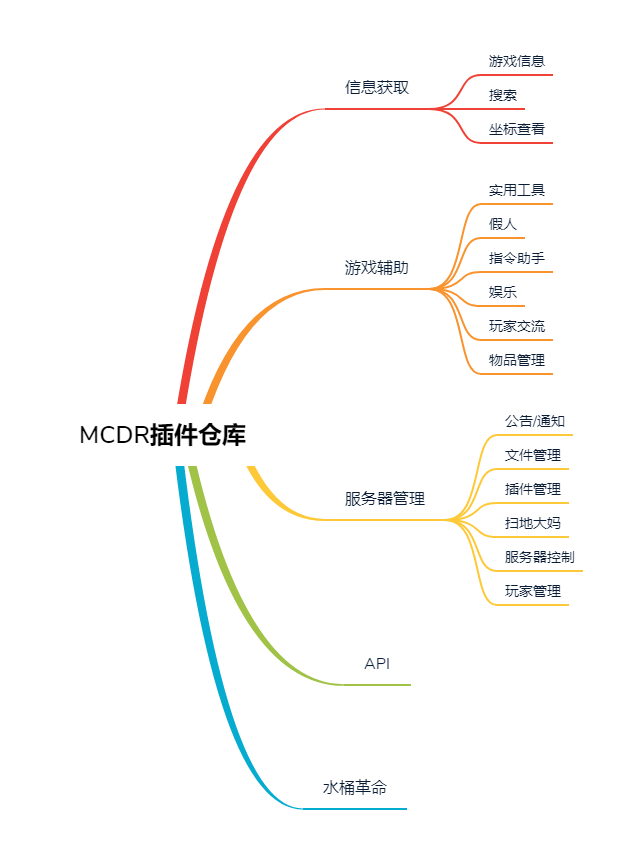
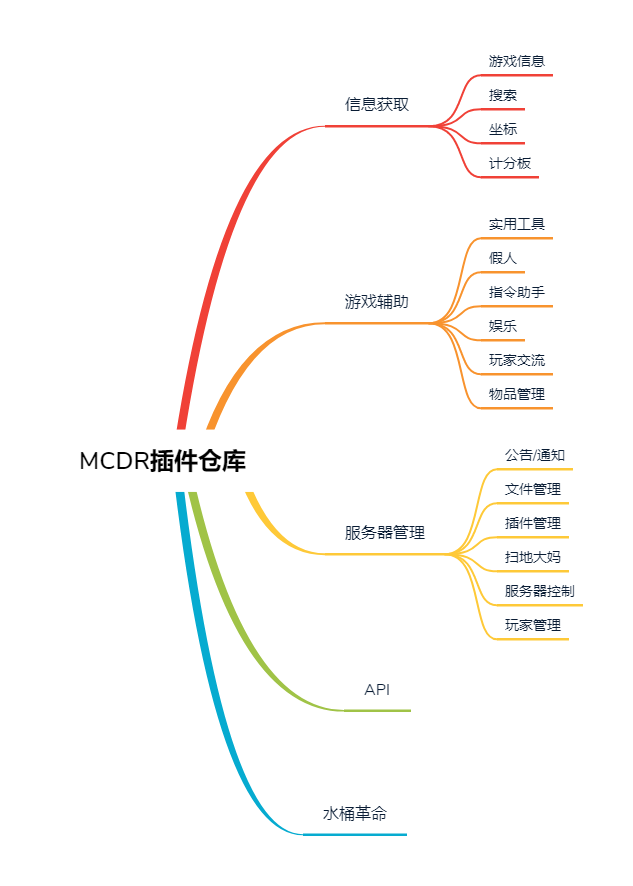
整理分类

diff --git a/readme_cn.md b/readme_cn.md
@@ -22,8 +22,6 @@
 | [Daytime](https://github.com/BelowZeroKelvin/MCDR-Daytime) | [BelowZeroKelvin](https://github.com/BelowZeroKelvin) | 查看mc的时间 |
 | [SystemInfo](https://github.com/eagle3236/SystemInfo) | [Alex3236](https://github.com/eagle3236) | 查看系统信息 |
 | [Seed](https://github.com/MCDReforged-Plugins/Seed) | [White_Paper](https://github.com/AngelicaRoot) | 查看服务器存档种子|
-| [MCDR-Auto-Scoreboard](https://github.com/AngelicaRoot/MCDR-Auto-Scoreboard) | [White_Paper_](https://github.com/AngelicaRoot) | 高度自定义的滚动计分板（自动换榜）插件 |
-| [Fz-sDatapackImporter](https://github.com/Hendrix-Shen/Fz-sDatapackImporter) | [Hendrix-Shen](https://github.com/Hendrix-Shen) | 一个用于将stats数据同步到Fz-sDatapack记分版的插件 |
 | [Online](https://github.com/A-JiuA/Online) | [A-JiuA](https://github.com/A-JiuA) | 查询多个服务器的玩家在线情况并在玩家登入时提示 |
 
 ### 搜索
@@ -35,14 +33,25 @@
 | [BilibiliParser](https://github.com/dogdie233/BilibiliParser) | [dogdie233](https://github.com/dogdie233) | 解析哔哩哔哩各种信息并打印在MC服务器上 |
 | [WikiRequests](https://github.com/lihuoran-oier/WikiRequests) | [DrLee_lihr](https://github.com/lihuoran-oier) | 另一个Wiki插件，查询Wiki上是否有某页面并返回该页面链接，其他情况会报错 |
 
-### 坐标查看
+### 坐标
 
 | 名称 | 维护者 | 功能 |
 | - | - | - |
 | [Here](https://github.com/TISUnion/Here) | [Fallen_Breath](https://github.com/Fallen-Breath) | 显示坐标并高亮玩家 |
 | [DeathPos](https://github.com/Da-Dog/MCDR_DeathPos) | [Da_Dog](https://github.com/Da-Dog) | 死亡坐标记录插件 |
 | [DeiPos](https://github.com/Squaregentleman/MCDR-plugins) | [57767598](https://github.com/Squaregentleman/) | 玩家死亡私发死亡坐标 |
+| [Waypoints](https://github.com/GamerNoTitle/MCDR-Waypoints) | [GamerNoTitle](https://github.com/GamerNoTitle) | 全服共享型VolexMap路径点，让路径点成为共享潮流！ |
 | [WarpR](https://github.com/Da-Dog/MCDR-Warp) | [Da_Dog](https://github.com/Da-Dog) | warp重制版, 坐标点插件, 坐标点传送[可选] |
+
+### 计分板
+
+| 名称 | 维护者 | 功能 |
+| - | - | - |
+| [StatsHelper](https://github.com/TISUnion/StatsHelper) | [Fallen_Breath](https://github.com/Fallen-Breath) | 统计信息查询以及计分板创建 |
+| [MCDR-Auto-Scoreboard](https://github.com/AngelicaRoot/MCDR-Auto-Scoreboard) | [White_Paper_](https://github.com/AngelicaRoot) | 高度自定义的滚动计分板（自动换榜）插件 |
+| [SChanger](https://github.com/HackerRouter/MCDR-ScoreboardChanger) | [HackerRouter](https://github.com/HackerRouter/) | 定时自动切换计分板 |
+| [Fz-sDatapackImporter](https://github.com/Hendrix-Shen/Fz-sDatapackImporter) | [Hendrix-Shen](https://github.com/Hendrix-Shen) | 一个用于将stats数据同步到Fz-sDatapack记分版的插件 |
+| [StatsRepeat](https://github.com/DancingSnow0517/StatsRepeat) | [DancingSnow0517](https://github.com/DancingSnow0517) | 计分板的创建并轮播 |
 
 ## 游戏辅助
 
@@ -55,15 +64,8 @@
 | [GameMode](https://github.com/Squaregentleman/MCDR-plugins) | [57767598](https://github.com/Squaregentleman/) | 切换玩家模式到旁观，切换回来会回到原来的位置(高级灵魂出窍) |
 | [petmove](https://github.com/63815af756f0357940c666d2ae1c801d/petmove) | [63815af756f0357940c666d2ae1c801d](https://github.com/63815af756f0357940c666d2ae1c801d) | 玩家间转移动物（如猫/狗等）的所有权 |
 | [PCRC-MCDR](https://github.com/TISUnion/PCRC-MCDR) | [Fallen_Breath](https://github.com/Fallen-Breath) | 服务端录制插件 |
-| [Leader](https://github.com/SCT-Technology/Leader) | [MercyNaima](https://github.com/MercyNaima) | 标记你为引领者，引领新人和观光团 |
-| [StatsHelper](https://github.com/TISUnion/StatsHelper) | [Fallen_Breath](https://github.com/Fallen-Breath) | 统计信息查询以及计分板创建 |
-| [SChanger](https://github.com/HackerRouter/MCDR-ScoreboardChanger) | [HackerRouter](https://github.com/HackerRouter/) | 定时自动切换计分板 |
 | [GamemodeR](https://github.com/zhang-anzhi/MCDReforgedPlugins/tree/master/GamemodeR) | [zhang_anzhi](https://github.com/zhang-anzhi) | 计时收费切换玩家模式到旁观，切换回来会回到原来的位置(高级灵魂出窍) |
-| [Waypoints](https://github.com/GamerNoTitle/MCDR-Waypoints) | [GamerNoTitle](https://github.com/GamerNoTitle) | 全服共享型VolexMap路径点，让路径点成为共享潮流！ |
-| [StatsRepeat](https://github.com/DancingSnow0517/StatsRepeat) | [DancingSnow0517](https://github.com/DancingSnow0517) | 计分板的创建并轮播 |
-|[dimTeleport](https://github.com/wyf0762/MCDReforged-Plugins/tree/master/dimTeleport)|[wyf0762](https://github.com/wyf0762)|在主世界地狱末地之间传送|
-|[PerimeterMaker](https://github.com/wyf0762/MCDReforged-Plugins/tree/master/PerimeterMaker)|[wyf0762](https://github.com/wyf0762)|在创造/镜像服中快速制造空置域，逐层操作，防止卡顿|
-| [tpHelper](https://github.com/dream-rhythm/MCDRPlugin-tpHelper) | [dream-rhythm](https://github.com/dream-rhythm) | 让非op可以使用tp、tpa及返回上次传送点 |
+| [PerimeterMaker](https://github.com/wyf0762/MCDReforged-Plugins/tree/master/PerimeterMaker) | [wyf0762](https://github.com/wyf0762) | 在创造/镜像服中快速制造空置域，逐层操作，防止卡顿 |
 
 ### 假人
 
@@ -86,7 +88,7 @@
 | 名称 | 维护者 | 功能 |
 | - | - | - |
 | [PlayerDropSkull](https://github.com/MCDReforged-Plugins/PlayerDropSkull) | [Fallen_Breath](https://github.com/Fallen-Breath) | 玩家在死亡时掉落头颅 |
-| [Hat](https://github.com/BelowZeroKelvin/MCDR-Hat) | [BelowZeroKelvin](https://github.com/BelowZeroKelvin/)| 将主手上的东西戴在头上 |
+| [Hat](https://github.com/BelowZeroKelvin/MCDR-Hat) | [BelowZeroKelvin](https://github.com/BelowZeroKelvin/) | 将主手上的东西戴在头上 |
 | [WebsocketBlh](https://github.com/ixiaohei-sakura/blh-blivedm) | [ixiaohei](https://github.com/ixiaohei-sakura/) |使用Websocket的bilibili弹幕姬 |
 | [BlackJack](https://github.com/Da-Dog/MCDR_BlackJack) | [Da_Dog](https://github.com/Da-Dog) | 21点 扑克小游戏 |
 | [TwentyFourPoints](https://github.com/zhang-anzhi/MCDReforgedPlugins/tree/master/TwentyFourPoints) | [zhang_anzhi](https://github.com/zhang-anzhi) | 24点经典数学游戏 |
@@ -98,7 +100,7 @@
 | 名称 | 维护者 | 功能 |
 | - | - | - |
 | [ChatBridge](https://github.com/TISUnion/ChatBridge) | [Fallen_Breath](https://github.com/Fallen-Breath) | 跨服聊天 |
-| [FastPost](https://github.com/HackerRouter/MCDR-FastPost/) |[HackerRouter](https://github.com/HackerRouter/) | 向一名离线玩家发送信息 |
+| [FastPost](https://github.com/HackerRouter/MCDR-FastPost/) | [HackerRouter](https://github.com/HackerRouter/) | 向一名离线玩家发送信息 |
 | [Beep](https://github.com/TISUnion/Beep) | [LucunJi](https://github.com/LucunJi) | 聊天时用 `@` 来提醒某人 |
 | [Vote](https://github.com/Da-Dog/MCDR_Vote) | [Da_Dog](https://github.com/Da-Dog) | 游戏内投票插件 |
 | [QQChat](https://github.com/zhang-anzhi/MCDReforgedPlugins/tree/master/QQChat) | [zhang_anzhi](https://github.com/zhang-anzhi) | 一个用于连接QQ和MC的聊天插件，附带查看在线玩家列表功能 |
@@ -168,9 +170,10 @@
 
 | 名称 | 维护者 | 功能 |
 | - | - | - |
+| [Leader](https://github.com/SCT-Technology/Leader) | [MercyNaima](https://github.com/MercyNaima) | 标记你为引领者，引领新人和观光团 |
 | [AdvancedBan](https://github.com/zhang-anzhi/MCDReforgedPlugins/tree/master/AdvancedBan) | [zhang_anzhi](https://github.com/zhang-anzhi) | 高级Ban人插件, 可定时 |
 | [AdvancedWhitelist](https://github.com/Da-Dog/MCDR-AdvancedWhitelist) | [Da_Dog](https://github.com/Da-Dog) | 高级白名单，可以自定义白名单踢出消息及IP白名单 |
-| [multi_whitelist](https://github.com/rickyhoho/multi_whitelist) |[Ricky](https://github.com/rickyhoho) | 一个用于控制多服务器白名单的插件 |
+| [multi_whitelist](https://github.com/rickyhoho/multi_whitelist) | [Ricky](https://github.com/rickyhoho) | 一个用于控制多服务器白名单的插件 |
 | [RepairManager](https://github.com/wyf0762/RepairManager) | [wyf0762](https://github.com/wyf0762/) | 管理机器报修 |
 
 ## API
@@ -204,3 +207,5 @@
 | [TeamAccount](https://github.com/zhang-anzhi/MCDReforgedPlugins/tree/master/TeamAccount) | [zhang_anzhi](https://github.com/zhang-anzhi) | 团队账号 |
 | [home](https://github.com/wyf0762/MCDReforged-Plugins/tree/master/home) | [wyf0762](https://github.com/wyf0762) | 设置家并在任何时候传送回家 |
 | [back](https://github.com/EDHY-233/MCDR-Plugins/tree/master/back) | [EDHY-233](https://github.com/EDHY-233) | 显示与返回玩家死亡点 |
+| [dimTeleport](https://github.com/wyf0762/MCDReforged-Plugins/tree/master/dimTeleport) | [wyf0762](https://github.com/wyf0762) | 在主世界地狱末地之间传送|
+| [tpHelper](https://github.com/dream-rhythm/MCDRPlugin-tpHelper) | [dream-rhythm](https://github.com/dream-rhythm) | 让非op可以使用tp、tpa及返回上次传送点 |

diff --git a/readme.md b/readme.md
@@ -22,10 +22,7 @@ If there is any good plugin, please submit a PR, and I will invite you to this o
 | [Daytime](https://github.com/BelowZeroKelvin/MCDR-Daytime) | [BelowZeroKelvin](https://github.com/BelowZeroKelvin) | Show minecraft time |
 | [SystemInfo](https://github.com/eagle3236/SystemInfo) | [Alex3236](https://github.com/eagle3236) | View system information |
 | [Seed](https://github.com/MCDReforged-Plugins/Seed) | [White_Paper_](https://github.com/AngelicaRoot) | Use"!!seed"to get seed |
-| [MCDR-Auto-Scoreboard](https://github.com/AngelicaRoot/MCDR-Auto-Scoreboard) | [White_Paper_](https://github.com/AngelicaRoot) | Highly customized rolling scoreboard plugin |
-| [Fz-sDatapackImporter](https://github.com/Hendrix-Shen/Fz-sDatapackImporter) | [Hendrix-Shen](https://github.com/Hendrix-Shen) | A plugin for synchronizing stats data to fz-s datapack scoreboard |
 | [Online](https://github.com/A-JiuA/Online) | [A-JiuA](https://github.com/A-JiuA) | A plugin for querying online players of several servers |
-
 
 ### Search
 
@@ -43,7 +40,18 @@ If there is any good plugin, please submit a PR, and I will invite you to this o
 | [Here](https://github.com/TISUnion/Here) | [Fallen_Breath](https://github.com/Fallen-Breath) | Boardcast your position and high light yourself |
 | [DeathPos](https://github.com/Da-Dog/MCDR_DeathPos) | [Da_Dog](https://github.com/Da-Dog) | Auto Record Death Position |
 | [DeiPos](https://github.com/Squaregentleman/MCDR-plugins) | [57767598](https://github.com/Squaregentleman/) | Send player death position to the position owner |
+| [Waypoints](https://github.com/GamerNoTitle/MCDR-Waypoints) | [GamerNoTitle](https://github.com/GamerNoTitle) | Gather your waypoints with Volexmap， save them in a database of your server and share them across the server |
 | [WarpR](https://github.com/Da-Dog/MCDR-Warp) | [Da_Dog](https://github.com/Da-Dog) | Another warp plugin to record mark point in game, warp teleport[Optional] |
+
+### Scoreboard
+
+| Name | Maintainer | Function |
+| - | - | - |
+| [StatsHelper](https://github.com/TISUnion/StatsHelper) | [Fallen_Breath](https://github.com/Fallen-Breath) | Statistic query and scoardboard maker |
+| [MCDR-Auto-Scoreboard](https://github.com/AngelicaRoot/MCDR-Auto-Scoreboard) | [White_Paper_](https://github.com/AngelicaRoot) | Highly customized rolling scoreboard plugin |
+| [SChanger](https://github.com/HackerRouter/MCDR-ScoreboardChanger) | [HackerRouter](https://github.com/HackerRouter/) | Change scoreboards automatically |
+| [Fz-sDatapackImporter](https://github.com/Hendrix-Shen/Fz-sDatapackImporter) | [Hendrix-Shen](https://github.com/Hendrix-Shen) | A plugin for synchronizing stats data to fz-s datapack scoreboard |
+| [StatsRepeat](https://github.com/DancingSnow0517/StatsRepeat) | [DancingSnow0517](https://github.com/DancingSnow0517) | Create and rotate the scoreboard |
 
 ## Game Helper
 
@@ -56,15 +64,8 @@ If there is any good plugin, please submit a PR, and I will invite you to this o
 | [GameMode](https://github.com/Squaregentleman/MCDR-plugins) | [57767598](https://github.com/Squaregentleman/) | Change a player's gamemode to spectator, Switch back will teleport him to the original position and change his mode to survival |
 | [petmove](https://github.com/63815af756f0357940c666d2ae1c801d/petmove) | [63815af756f0357940c666d2ae1c801d](https://github.com/63815af756f0357940c666d2ae1c801d) | Move a pet between different players |
 | [PCRC-MCDR](https://github.com/TISUnion/PCRC-MCDR) | [Fallen_Breath](https://github.com/Fallen-Breath) | Record on server plugin |
-| [Leader](https://github.com/SCT-Technology/Leader) | [MercyNaima](https://github.com/MercyNaima) | Mark you to a leader,and leads people |
-| [StatsHelper](https://github.com/TISUnion/StatsHelper) | [Fallen_Breath](https://github.com/Fallen-Breath) | Statistic query and scoardboard maker |
-| [SChanger](https://github.com/HackerRouter/MCDR-ScoreboardChanger) | [HackerRouter](https://github.com/HackerRouter/) | Change scoreboards automatically |
 | [GamemodeR](https://github.com/zhang-anzhi/MCDReforgedPlugins/tree/master/GamemodeR) | [zhang_anzhi](https://github.com/zhang-anzhi) | Change a player's gamemode to spectator with charge base on timer, Switch back will teleport him to the original position and change his mode to survival |
-| [Waypoints](https://github.com/GamerNoTitle/MCDR-Waypoints) | [GamerNoTitle](https://github.com/GamerNoTitle) | Gather your waypoints with Volexmap， save them in a database of your server and share them across the server |
-| [StatsRepeat](https://github.com/DancingSnow0517/StatsRepeat) | [DancingSnow0517](https://github.com/DancingSnow0517) | Create and rotate the scoreboard |
-|[dimTeleport](https://github.com/wyf0762/MCDReforged-Plugins/tree/master/dimTeleport)|[wyf0762](https://github.com/wyf0762)|Teleport between overworld, the nether and the_end|
-|[PerimeterMaker](https://github.com/wyf0762/MCDReforged-Plugins/tree/master/PerimeterMaker)|[wyf0762](https://github.com/wyf0762)|Create perimeters in creative/mirror servers, operate layer by layer to avoid lags.|
-| [tpHelper](https://github.com/dream-rhythm/MCDRPlugin-tpHelper) | [dream-rhythm](https://github.com/dream-rhythm) | Let non-op can use tp,tpa and back to last tp Position |
+| [PerimeterMaker](https://github.com/wyf0762/MCDReforged-Plugins/tree/master/PerimeterMaker) | [wyf0762](https://github.com/wyf0762) | Create perimeters in creative/mirror servers, operate layer by layer to avoid lags |
 
 ### Bot
 
@@ -169,6 +170,7 @@ If there is any good plugin, please submit a PR, and I will invite you to this o
 
 | Name | Maintainer | Function |
 | - | - | - |
+| [Leader](https://github.com/SCT-Technology/Leader) | [MercyNaima](https://github.com/MercyNaima) | Mark you to a leader,and leads people |
 | [AdvancedBan](https://github.com/zhang-anzhi/MCDReforgedPlugins/tree/master/AdvancedBan) | [zhang_anzhi](https://github.com/zhang-anzhi) | AdvancedBan, has timing |
 | [AdvancedWhitelist](https://github.com/Da-Dog/MCDR-AdvancedWhitelist) | [Da_Dog](https://github.com/Da-Dog) | AdvancedWhitelist with custom kick message and IP whitelist |
 | [multi_whitelist](https://github.com/rickyhoho/multi_whitelist) |[Ricky](https://github.com/rickyhoho) |A plugin for control whitelist in multi servers|
@@ -205,3 +207,5 @@ If there is any good plugin, please submit a PR, and I will invite you to this o
 | [TeamAccount](https://github.com/zhang-anzhi/MCDReforgedPlugins/tree/master/TeamAccount) | [zhang_anzhi](https://github.com/zhang-anzhi) | team account |
 | [home](https://github.com/wyf0762/MCDReforged-Plugins/tree/master/home) | [wyf0762](https://github.com/wyf0762)| Set a home and teleport to home at any time |
 | [back](https://github.com/EDHY-233/MCDR-Plugins/tree/master/back) | [EDHY-233](https://github.com/EDHY-233) | Show and teleport to player's failed place |
+| [dimTeleport](https://github.com/wyf0762/MCDReforged-Plugins/tree/master/dimTeleport) | [wyf0762](https://github.com/wyf0762) | Teleport between overworld, the nether and the_end |
+| [tpHelper](https://github.com/dream-rhythm/MCDRPlugin-tpHelper) | [dream-rhythm](https://github.com/dream-rhythm) | Let non-op can use tp,tpa and back to last tp Position |
